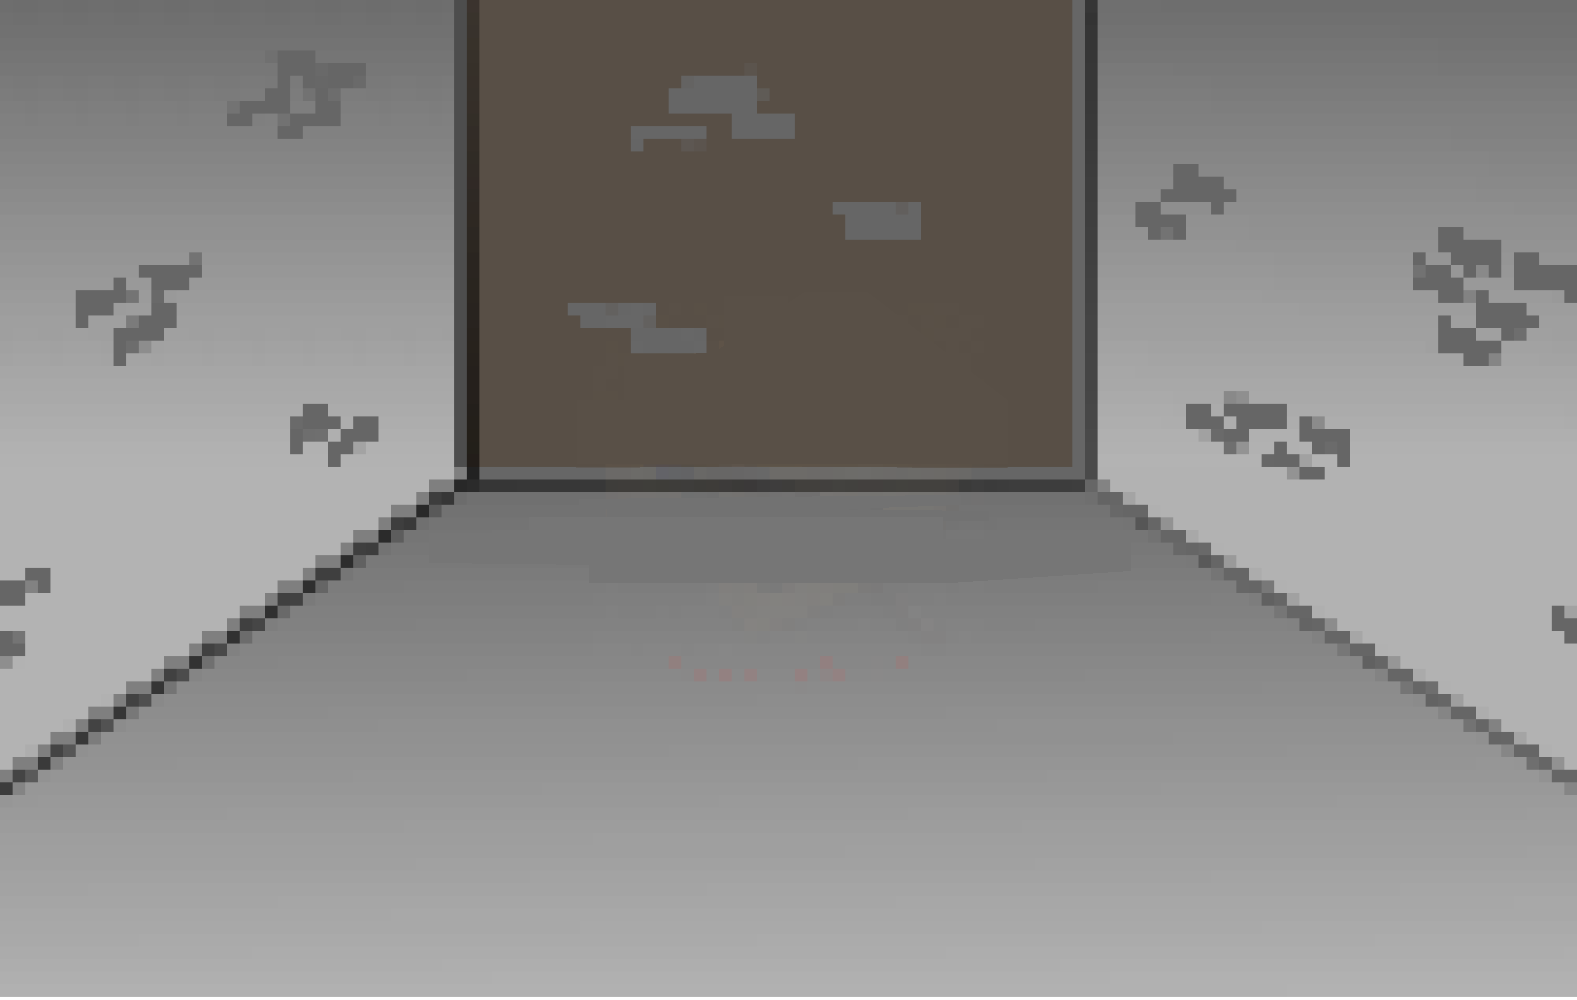
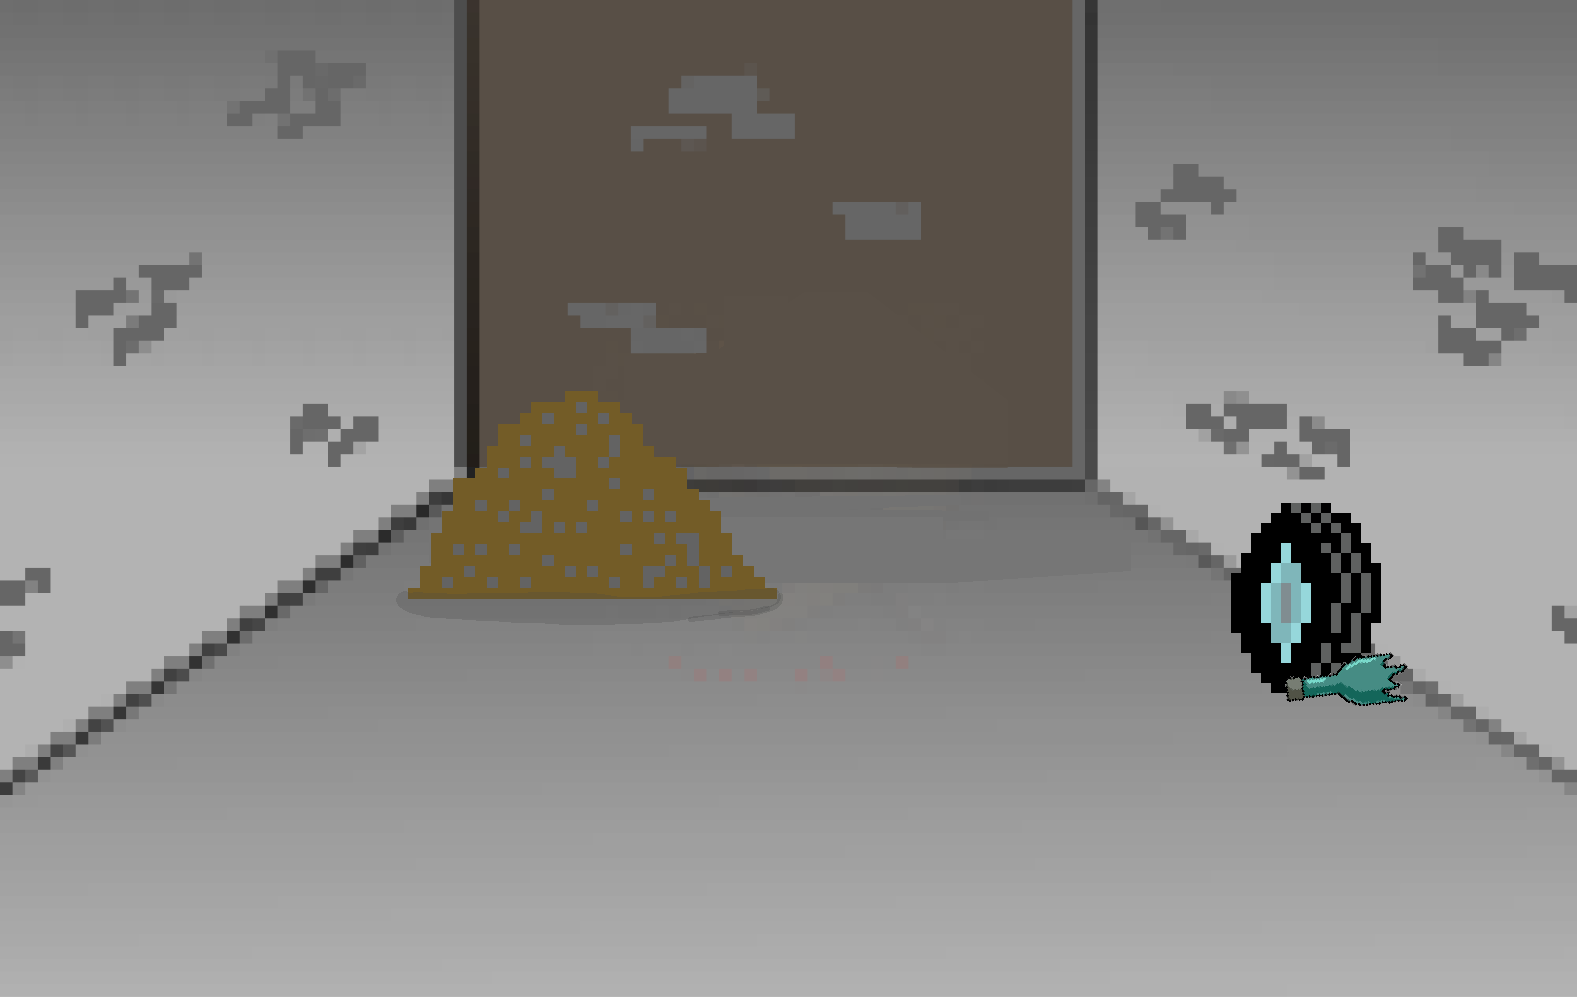
improvements

Changed region(s): [[0.2486, 0.372, 0.4971, 0.62], [0.7768, 0.496, 0.9011, 0.713]]

diff --git a/2.Iteration/src/main/java/presentation/SceneController.java b/2.Iteration/src/main/java/presentation/SceneController.java
@@ -113,14 +113,16 @@ public class SceneController extends Application {
         stage.show();
     }
 
-    public void yes(ActionEvent event) {
+    public void yes(ActionEvent event) throws FileNotFoundException {
         resetDialogue();
         game.yes();
+        loadInventory();
     }
 
-    public void no(ActionEvent event) {
+    public void no(ActionEvent event) throws FileNotFoundException {
         resetDialogue();
         game.no();
+        loadInventory();
     }
 
     @FXML
@@ -284,17 +286,22 @@ public class SceneController extends Application {
         for (int i = 0; i < game.getCurrentRoom().getNPCs().size(); i++) {
             if (game.getCurrentRoom().getNPCsName(i) == name) {
                 game.setCurrentTrader(game.getCurrentRoom().getNPCs().get(i));
-                dialogueBox.setText(game.getCurrentTrader().getQuest());
-                if (game.questComplete(game.getCurrentTrader())) {
-                    tradeOffer.setText(game.getCurrentTrader().getQuestComplete());
-                    try {
-                        yes.setDisable(false);
-                        yes.setOpacity(1);
-                        no.setDisable(false);
-                        no.setOpacity(1);
-                    } catch (NullPointerException e) {
-                        System.out.println(e);
+                if(game.getCurrentTrader().getTrader()){
+                    dialogueBox.setText(game.getCurrentTrader().getQuest());
+                    if (game.questComplete(game.getCurrentTrader())) {
+                        tradeOffer.setText(game.getCurrentTrader().getQuestComplete());
+                        try {
+                            yes.setDisable(false);
+                            yes.setOpacity(1);
+                            no.setDisable(false);
+                            no.setOpacity(1);
+                        } catch (NullPointerException e) {
+                            System.out.println(e);
+                        }
                     }
+                }
+                else{
+                    dialogueBox.setText(game.getCurrentTrader().getQuestComplete());
                 }
             }
         }

diff --git a/2.Iteration/src/main/java/presentation/MarketController.java b/2.Iteration/src/main/java/presentation/MarketController.java
@@ -24,8 +24,6 @@ public class MarketController extends SceneController {
 
     public void talkBaker() throws FileNotFoundException {
         talk("baker");
-
-
     }
 
     public void talkShopper() throws FileNotFoundException {
@@ -35,7 +33,6 @@ public class MarketController extends SceneController {
     public void disableButtons() {
         north.setDisable(true);
         east.setDisable(true);
-
     }
 }
 
